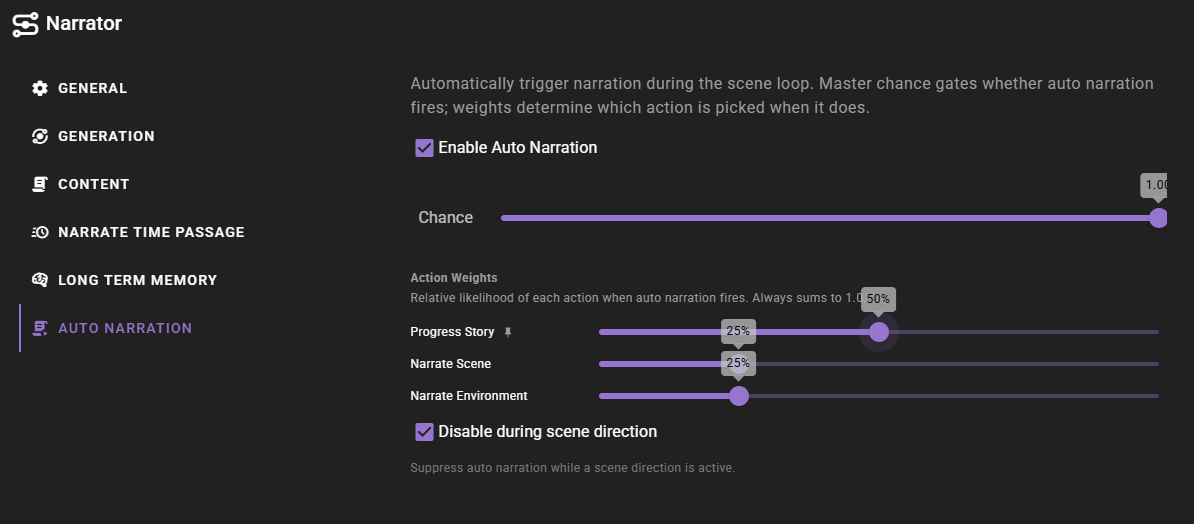
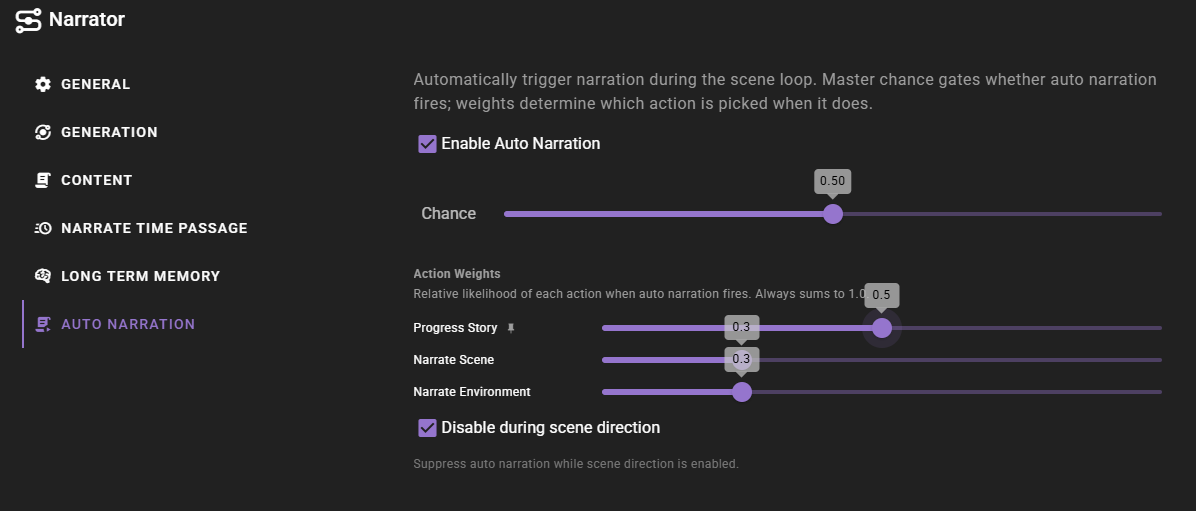
fix: update format function for weight display in ConfigWidgetWeights

diff --git a/talemate_frontend/src/components/ConfigWidgetWeights.vue b/talemate_frontend/src/components/ConfigWidgetWeights.vue
@@ -31,7 +31,7 @@
                 class="flex-grow-1"
             >
                 <template v-slot:thumb-label="{ modelValue }">
-                    {{ formatPct(modelValue) }}
+                    {{ formatWeight(modelValue) }}
                 </template>
             </v-slider>
         </div>
@@ -74,8 +74,9 @@ export default {
             const v = this.modelValue?.[key];
             return typeof v === 'number' ? v : 0;
         },
-        formatPct(v) {
-            return `${Math.round(v * 100)}%`;
+        formatWeight(v) {
+            const precision = Math.max(0, Math.round(-Math.log10(this.step)));
+            return Number(v).toFixed(precision);
         },
         onSlide(changedKey, newValue) {
             const keys = this.choices.map(c => c.value);